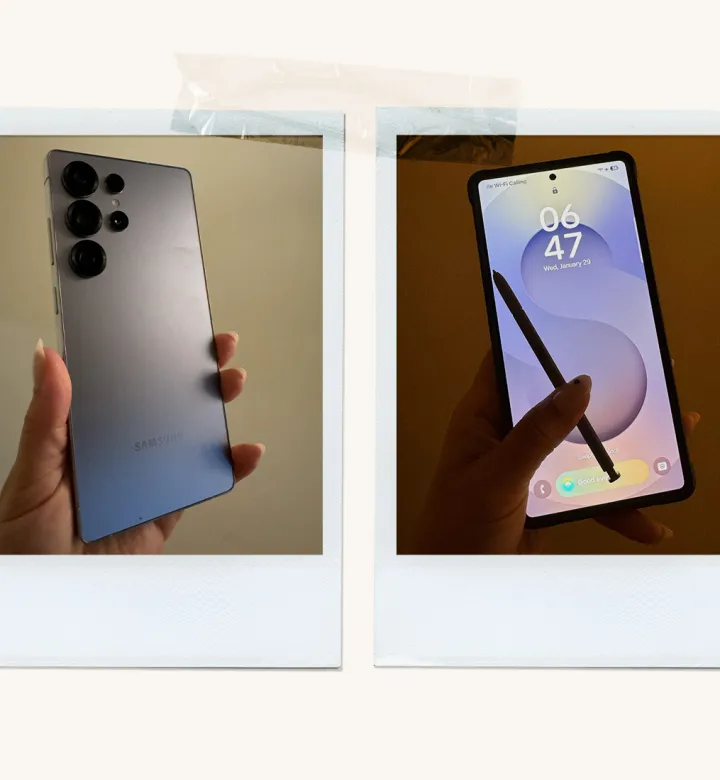
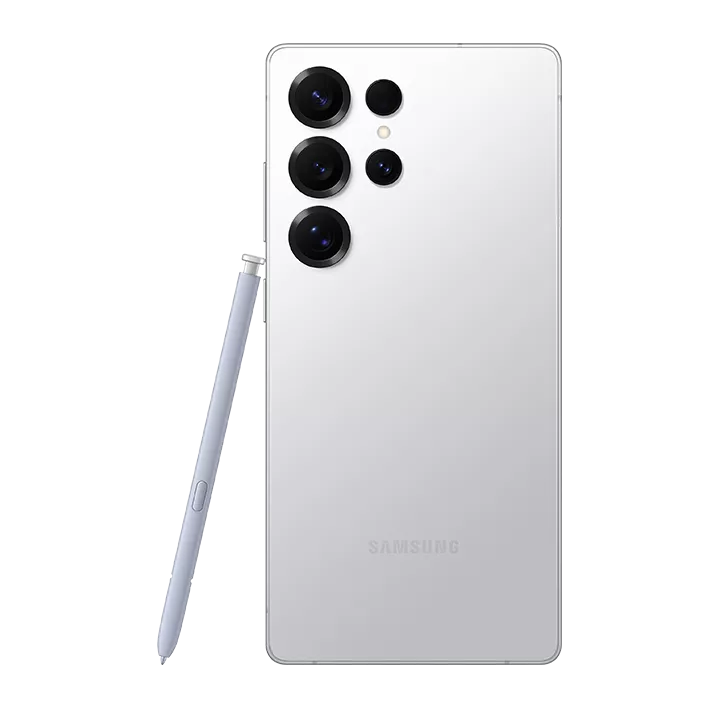
adding samsung

diff --git a/public/styles/ecommerce.css b/public/styles/ecommerce.css
@@ -1,6 +1,12 @@
-body{
+body {
     font-family: Arial, sans-serif;
-    
+    background-image: url("");
+    background-position: center;
+    background-repeat: no-repeat;
+    background-size: cover;
+    margin: 0;
+    padding: 0;
+    font-family: Arial, sans-serif;
 }
 
 
@@ -11,6 +17,7 @@ body{
     width: 100%;
     height: 100px;
     display: flex;
+    background-color: rgb(0, 84, 188);
     border-bottom: 1px solid black;
     justify-content: space-between;
     align-items: center;
@@ -19,12 +26,14 @@ body{
 
 
 .top-nav h1 {
+    font-size: 40px;
+    font-family: "Roboto slab";
     width: 400px;
     margin-left: 50px;
     font-style: italic;
     font-weight: 900;
-    color: #006fe5;
-    text-shadow: 1px 1px 3px rgba(0, 0, 0, 0.3);
+    color: white;
+    text-shadow: 5px 5px 2px rgba(0, 0, 0, 0.3);
 }
 
 .top-nav nav{
@@ -46,16 +55,18 @@ body{
 }
 
 .top-nav nav ul li a{
-    color: black;
+    color: white;
     text-decoration: none;
     font-size: 18px;
     font-weight: bold;
     font-style: italic;
+    display: inline-block; /* important */
+    transition: transform 0.3s ease;
 }
 
 .top-nav nav ul li a:hover{
-    color: #004d9f;
-    text-shadow: 2px 2px 5px rgba(0, 0, 0, 0.3);
+    transform: scale(1.05);
+    text-shadow: 2px 2px 2px rgba(0, 0, 0, 0.3);
     text-decoration: underline;
     transition: 0.2s;
 }
@@ -182,19 +193,82 @@ body{
 
 /* Smartphones Section */
 .smartphones {
-    width: 1000px;
+    width: 800px;
     height: 500px;
     background-color: #006fe5;
     border-radius: 5px;
-    background-color: rgb(0 111 229 / 70%);
+    background-color: rgba(32, 129, 227, 0.4);
+    
     position: absolute;
     z-index: 1;
     top: 50%;
     left: 50%;
     transform: translate(-50%, -50%);
+    display: flex;
+    align-items: center;
+    justify-content: center;
+    gap: 140px;
+
 }
 
 
-.smartphones .mobile{
 
+
+
+.smartphones .mobile {
+    width: 280px;
+    height: 400px;
+    overflow: hidden;
+    position: relative;
+    background-color: white;
+    border-radius: 10px;
+    box-shadow: 2px 2px 4px black;
 }
+
+
+.slider-track {
+    display: flex;
+    width: 800%;
+    height: 100%;
+    animation: slide 10s linear infinite;
+}
+
+
+@keyframes slide {
+    from {
+        transform: translateX(0);
+    }
+    to {
+        transform: translateX(-1120px); 
+    }
+}
+
+
+
+
+.smartphones .mobile .iphone-img{
+    width: 280px;;   
+    height: 100%;
+    object-fit: cover;
+    flex-shrink: 0; 
+    
+   
+}
+
+
+.smartphones .mobile .samsung-img{
+    width: 280px;;   
+    height: 100%;
+    object-fit: cover;
+    flex-shrink: 0; 
+    
+   
+}
+
+
+
+
+
+
+
+